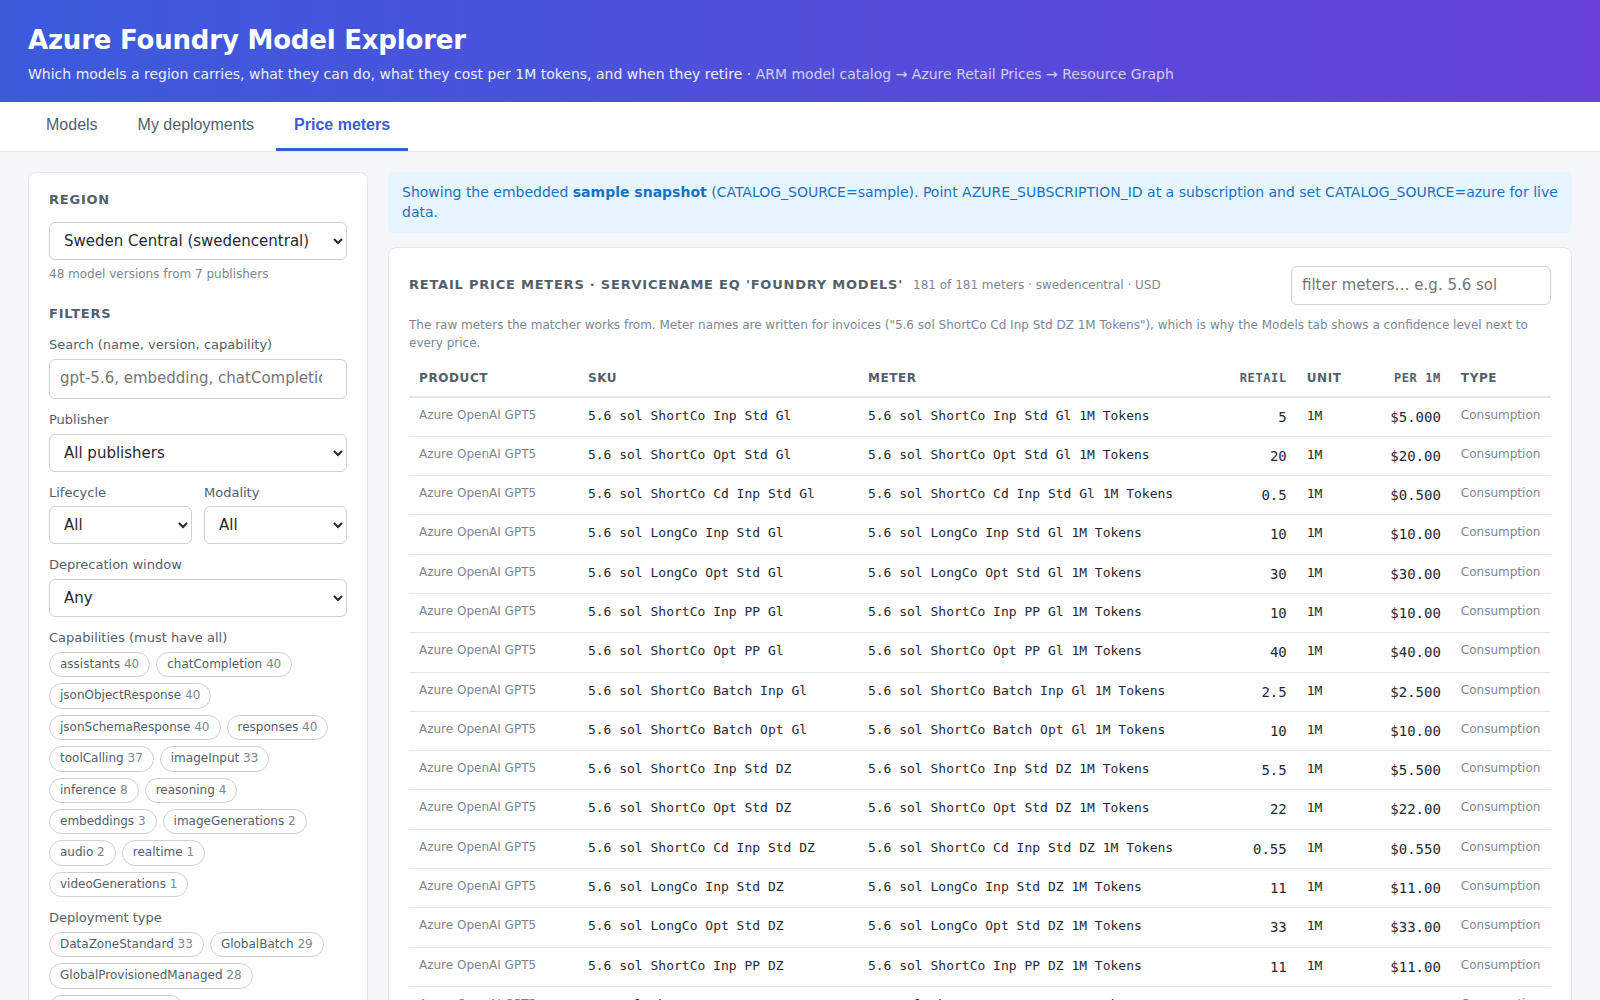
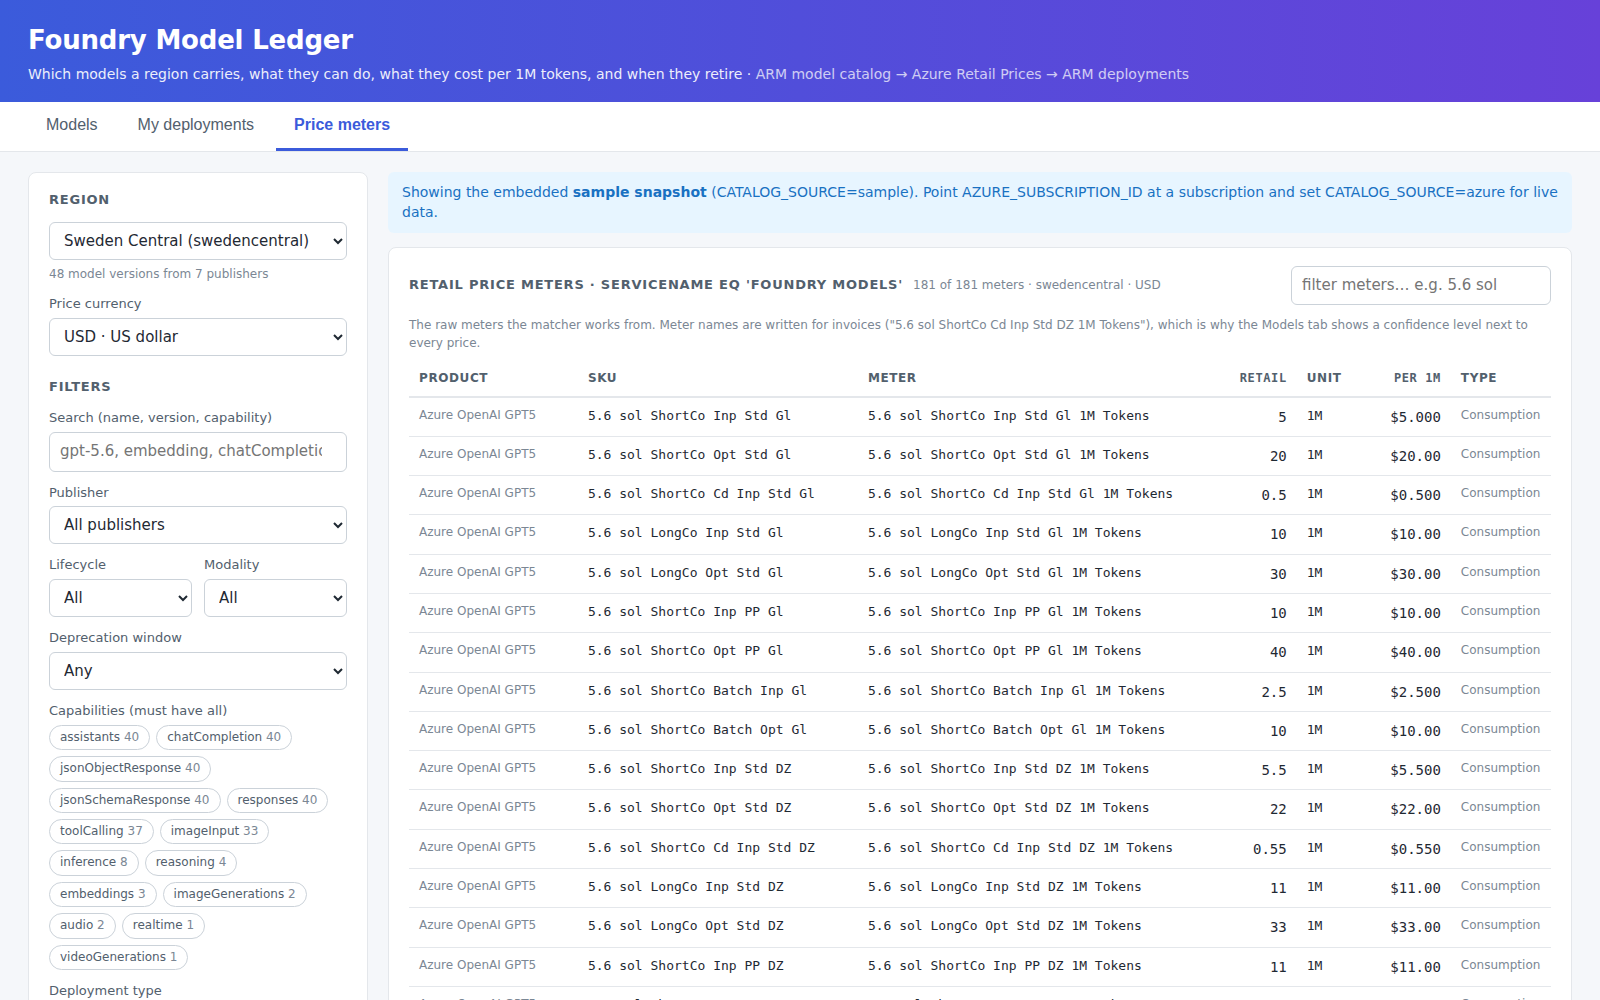
Refresh README screenshots for Foundry Model Ledger

diff --git a/README.md b/README.md
@@ -14,7 +14,7 @@ The answers exist in Azure, but in three places that were never designed to be r
 | What they cost | [Azure Retail Prices API](https://learn.microsoft.com/rest/api/cost-management/retail-prices/azure-retail-prices), `serviceName eq 'Foundry Models'` | Public, no auth, paged; meters are matched to catalog models by a tokenising matcher (see below) |
 | Which of *my* deployments run on a retiring version | ARM: the subscription's `Microsoft.CognitiveServices/accounts` and each account's `/deployments` | Listed per account (Resource Graph does not index deployments), joined to the catalog of each deployment's region |
 
-![Models tab](docs/models.png)
+![Foundry Model Ledger models tab](docs/models.png)
 
 ## What you get
 
@@ -25,6 +25,10 @@ The answers exist in Azure, but in three places that were never designed to be r
 **My deployments tab.** All model deployments in every Cognitive Services / Foundry account of the subscription, joined to their region's catalog, sorted by soonest retirement, with the `versionUpgradeOption` so you can see whether Azure will auto-upgrade them.
 
 **Price meters tab.** The raw Retail Prices rows for the region, searchable, so you can check the matcher's evidence.
+
+![Detail panel with SKUs, matched meters and region availability](docs/availability.png)
+
+![My deployments tab](docs/deployments.png)
 
 ## Why prices need a matcher
 
